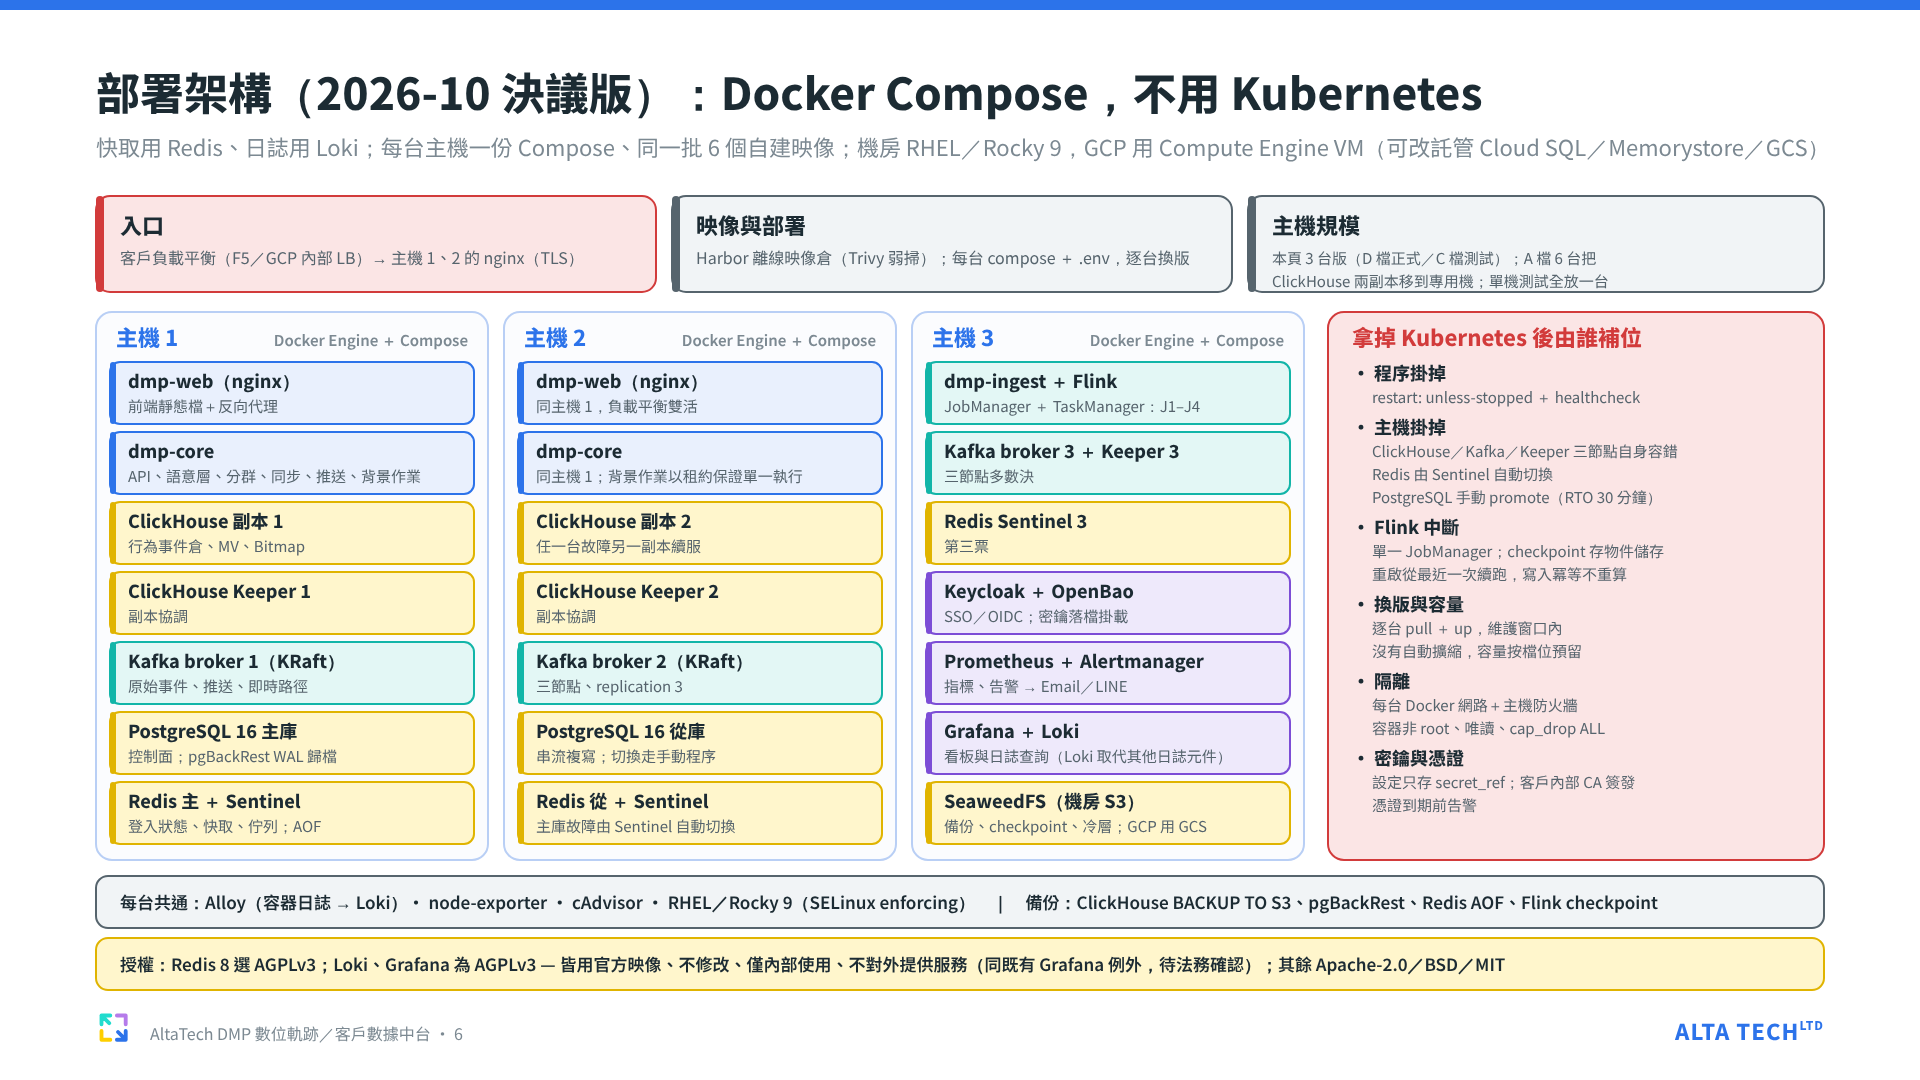
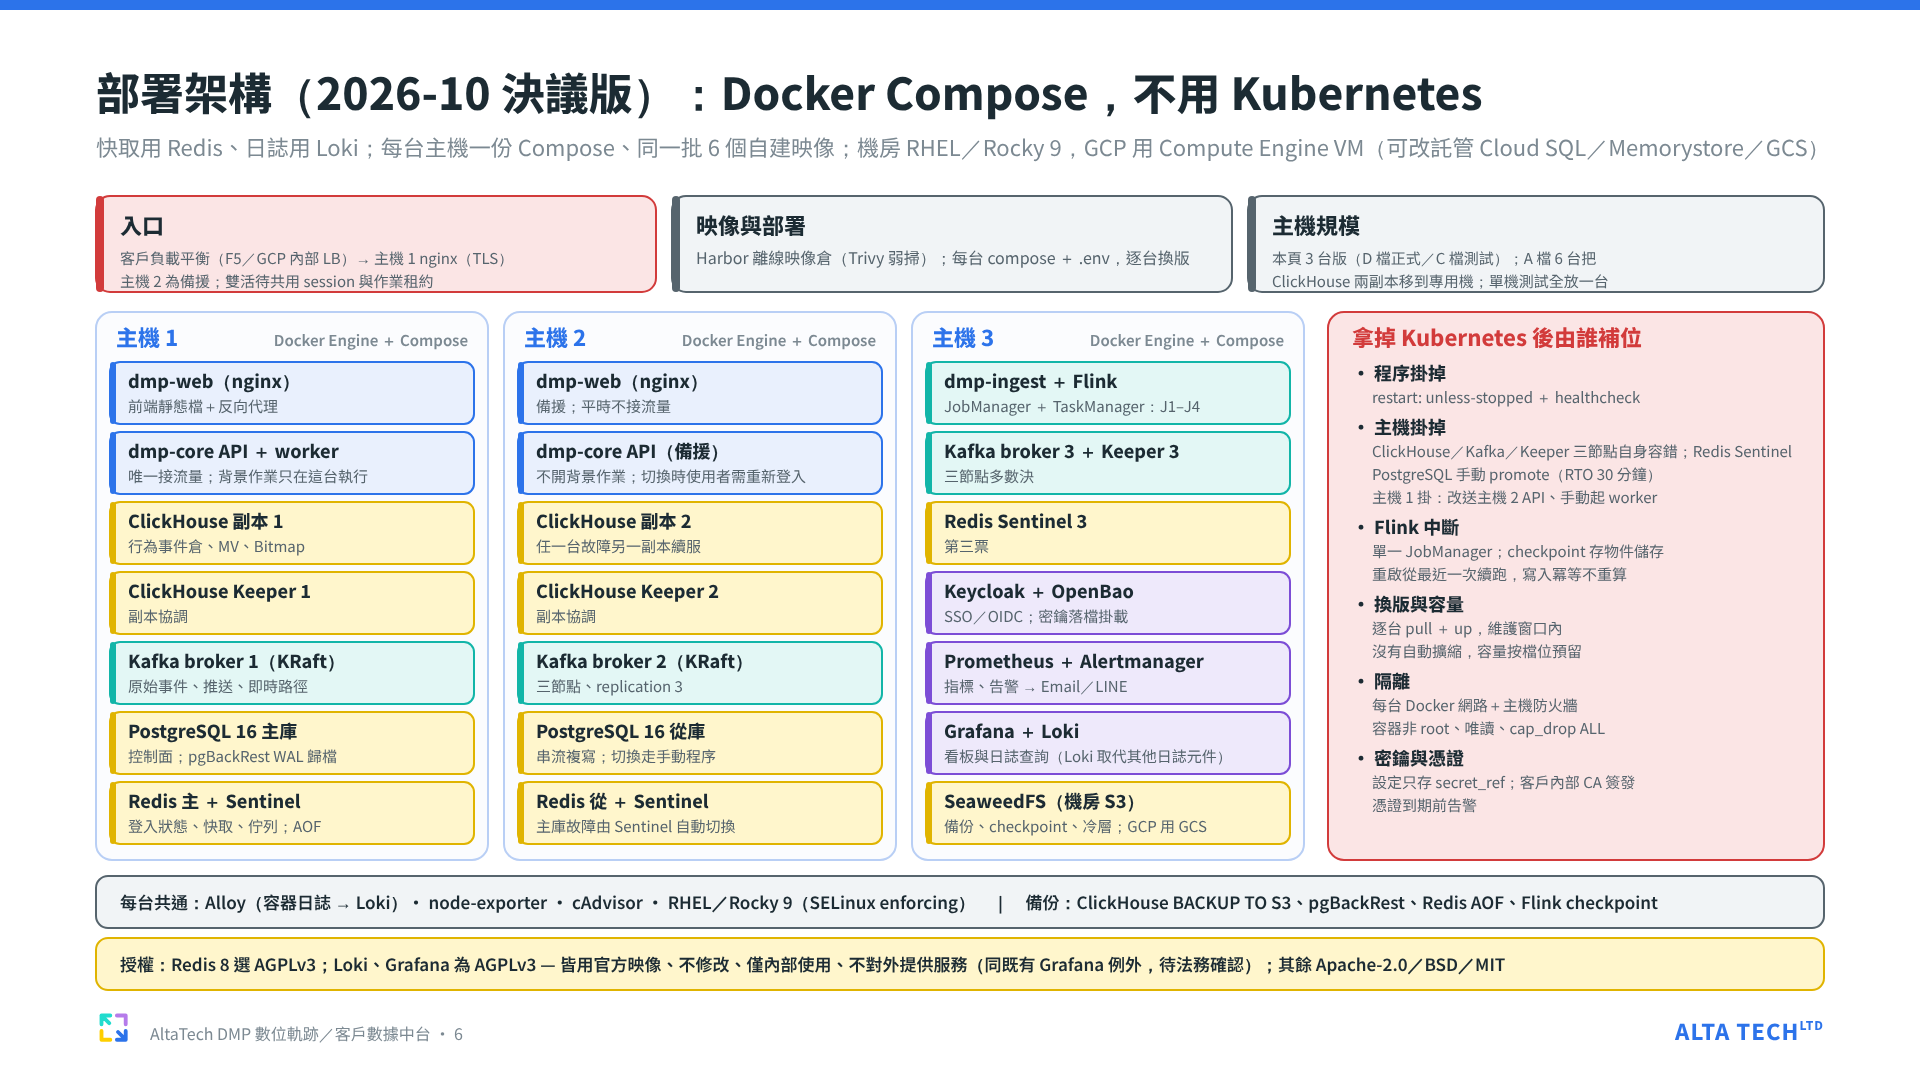
docs/44：API 先主備不雙活，雙活前置工作列入後續
審查指出：登入 session 與 SSO 登入前狀態都在 API 程序記憶體，
第二個 API 不認得同一個 cookie；背景作業 tick 沒有跨程序租約，
兩份 worker 會重複寄送。原文「應用程式碼不用改」與圖上「以租約
保證單一執行」都不成立。

- 拓樸改主備：負載平衡只送主機 1，主機 2 為備援，只有主機 1 的
  worker 開背景作業；主機 1 故障時改送主機 2（需重新登入）
- 新增 §5a 雙活前置工作與驗收；§7 加 backend PR
- 圖與規格書 §1.2 同步

diff --git a/docs/diagrams/build_slides.py b/docs/diagrams/build_slides.py
@@ -204,15 +204,15 @@ def s6():
     s = Slide("部署架構（2026-10 決議版）：Docker Compose，不用 Kubernetes",
               "快取用 Redis、日誌用 Loki；每台主機一份 Compose、同一批 6 個自建映像；機房 RHEL／Rocky 9，GCP 用 Compute Engine VM（可改託管 Cloud SQL／Memorystore／GCS）", 6)
     # 入口列
-    s.box(96, 196, 560, 96, "入口", ["客戶負載平衡（F5／GCP 內部 LB）→ 主機 1、2 的 nginx（TLS）"], "red", 22, 16)
+    s.box(96, 196, 560, 96, "入口", ["客戶負載平衡（F5／GCP 內部 LB）→ 主機 1 nginx（TLS）", "主機 2 為備援；雙活待共用 session 與作業租約"], "red", 22, 15)
     s.box(672, 196, 560, 96, "映像與部署", ["Harbor 離線映像倉（Trivy 弱掃）；每台 compose ＋ .env，逐台換版"], "gray", 22, 16)
     s.box(1248, 196, 576, 96, "主機規模", ["本頁 3 台版（D 檔正式／C 檔測試）；A 檔 6 台把", "ClickHouse 兩副本移到專用機；單機測試全放一台"], "gray", 22, 15)
     hosts = [
-        ("主機 1", [("dmp-web（nginx）", "前端靜態檔＋反向代理", "brand"), ("dmp-core", "API、語意層、分群、同步、推送、背景作業", "brand"),
+        ("主機 1", [("dmp-web（nginx）", "前端靜態檔＋反向代理", "brand"), ("dmp-core API ＋ worker", "唯一接流量；背景作業只在這台執行", "brand"),
                    ("ClickHouse 副本 1", "行為事件倉、MV、Bitmap", "yellow"), ("ClickHouse Keeper 1", "副本協調", "yellow"),
                    ("Kafka broker 1（KRaft）", "原始事件、推送、即時路徑", "teal"), ("PostgreSQL 16 主庫", "控制面；pgBackRest WAL 歸檔", "yellow"),
                    ("Redis 主 ＋ Sentinel", "登入狀態、快取、佇列；AOF", "yellow")]),
-        ("主機 2", [("dmp-web（nginx）", "同主機 1，負載平衡雙活", "brand"), ("dmp-core", "同主機 1；背景作業以租約保證單一執行", "brand"),
+        ("主機 2", [("dmp-web（nginx）", "備援；平時不接流量", "brand"), ("dmp-core API（備援）", "不開背景作業；切換時使用者需重新登入", "brand"),
                    ("ClickHouse 副本 2", "任一台故障另一副本續服", "yellow"), ("ClickHouse Keeper 2", "副本協調", "yellow"),
                    ("Kafka broker 2（KRaft）", "三節點、replication 3", "teal"), ("PostgreSQL 16 從庫", "串流複寫；切換走手動程序", "yellow"),
                    ("Redis 從 ＋ Sentinel", "主庫故障由 Sentinel 自動切換", "yellow")]),
@@ -235,7 +235,7 @@ def s6():
     s.rect(1328, 312, 496, 548, C["redsoft"], C["red"], 16)
     s.text(1352, 346, "拿掉 Kubernetes 後由誰補位", 22, 800, C["red"])
     tips = [("程序掛掉", ["restart: unless-stopped ＋ healthcheck"]),
-            ("主機掛掉", ["ClickHouse／Kafka／Keeper 三節點自身容錯", "Redis 由 Sentinel 自動切換", "PostgreSQL 手動 promote（RTO 30 分鐘）"]),
+            ("主機掛掉", ["ClickHouse／Kafka／Keeper 三節點自身容錯；Redis Sentinel", "PostgreSQL 手動 promote（RTO 30 分鐘）", "主機 1 掛：改送主機 2 API、手動起 worker"]),
             ("Flink 中斷", ["單一 JobManager；checkpoint 存物件儲存", "重啟從最近一次續跑，寫入冪等不重算"]),
             ("換版與容量", ["逐台 pull ＋ up，維護窗口內", "沒有自動擴縮，容量按檔位預留"]),
             ("隔離", ["每台 Docker 網路＋主機防火牆", "容器非 root、唯讀、cap_drop ALL"]),

diff --git a/docs/44-deployment-docker-redis-loki.md b/docs/44-deployment-docker-redis-loki.md
@@ -11,21 +11,21 @@
 | D-2 | 快取、佇列、登入狀態用 **Redis**（不換 Valkey） | Valkey 8 | 團隊熟 Redis；授權處理見 §3 |
 | D-3 | 日誌用 **Loki**（＋ Grafana 查詢），不用 OpenSearch／VictoriaLogs／Cloud Logging | VictoriaLogs（或 OpenSearch） | 團隊熟 Loki；與既有 Grafana 同一介面 |
 
-不變：6 個自建映像（core／ingest／batch／agent／flink-jobs／web）、ClickHouse、Kafka（KRaft）、PostgreSQL 16、Keycloak、OpenBao、Prometheus ＋ Grafana、Harbor、物件儲存（機房 SeaweedFS／GCP GCS）、機器檔位（docs/13）。映像本來就是 Docker 映像，應用程式碼不用改。
+不變：6 個自建映像（core／ingest／batch／agent／flink-jobs／web）、ClickHouse、Kafka（KRaft）、PostgreSQL 16、Keycloak、OpenBao、Prometheus ＋ Grafana、Harbor、物件儲存（機房 SeaweedFS／GCP GCS）、機器檔位（docs/13）。映像本來就是 Docker 映像；**單一 API 實例**部署不用改程式。兩個 API 同時接流量（雙活）與背景作業多份執行都**需要先改程式**，見 §5a；完成前採主備。
 
 ## 2. 部署拓樸（3 台版，D 檔正式／C 檔測試）
 
 | 主機 | 容器 |
 |---|---|
-| 1 | dmp-web（nginx，TLS）、dmp-core、ClickHouse 副本 1、Keeper 1、Kafka 1、PostgreSQL 主庫、Redis 主 ＋ Sentinel |
-| 2 | dmp-web、dmp-core、ClickHouse 副本 2、Keeper 2、Kafka 2、PostgreSQL 從庫、Redis 從 ＋ Sentinel |
+| 1 | dmp-web（nginx，TLS）、dmp-core API（唯一接流量）＋ dmp-core worker（唯一開背景作業）、ClickHouse 副本 1、Keeper 1、Kafka 1、PostgreSQL 主庫、Redis 主 ＋ Sentinel |
+| 2 | dmp-web、dmp-core API 備援（平時不接流量、不開背景作業）、ClickHouse 副本 2、Keeper 2、Kafka 2、PostgreSQL 從庫、Redis 從 ＋ Sentinel |
 | 3 | dmp-ingest、Flink（JobManager ＋ TaskManager，跑 docs/43 的 J1–J4）、Kafka 3、Keeper 3、Redis Sentinel、Keycloak、OpenBao、Prometheus ＋ Alertmanager、Grafana ＋ Loki、SeaweedFS（機房） |
 | 每台 | Alloy（容器日誌 → Loki）、node-exporter、cAdvisor；RHEL／Rocky 9，SELinux enforcing |
 
 - A 檔 6 台：ClickHouse 兩副本移到兩台專用機（olap），其餘同上分散到 4 台。
 - 單機測試環境（docs/17 §5a 建議 1 台 4 vCPU／16 GB）：同一份 compose、每種服務 1 份、不開 Sentinel。
 - GCP：Compute Engine VM 跑同一份 compose；可選擇改用託管 Cloud SQL（PostgreSQL）、Memorystore for Redis、GCS，compose 裡對應服務不啟動、連線字串改指託管端點。
-- 入口：客戶既有負載平衡（機房 F5 等，GCP 內部 LB）→ 主機 1、2 的 nginx；不新增 keepalived 等元件。
+- 入口：客戶既有負載平衡（機房 F5 等，GCP 內部 LB）→ 主機 1 的 nginx，主機 2 設為備援（backup）；不新增 keepalived 等元件。雙活要等 §5a 完成。
 
 ## 3. Redis 授權怎麼處理（需法務確認）
 
@@ -53,7 +53,7 @@ Loki 3.x 為 AGPLv3，與 Grafana OSS 同一家、同一種處理：官方映像
 | 原本由 K8s／Operator 做的事 | Docker 版做法 | 代價 |
 |---|---|---|
 | 程序掛掉自動重啟 | `restart: unless-stopped` ＋ `healthcheck` | 無 |
-| 主機故障時把服務搬到別台 | 不搬；靠服務本身的多副本：ClickHouse 雙副本、Kafka／Keeper 三節點、Redis Sentinel 自動切換；PostgreSQL 從庫手動 promote（運維手冊，RTO 30 分鐘） | PostgreSQL 切換變手動；故障主機上的 dmp-core 由另一台 nginx 承接 |
+| 主機故障時把服務搬到別台 | 不搬；靠服務本身的多副本：ClickHouse 雙副本、Kafka／Keeper 三節點、Redis Sentinel 自動切換；PostgreSQL 從庫手動 promote（運維手冊，RTO 30 分鐘） | PostgreSQL 切換變手動；主機 1 故障時負載平衡改送主機 2 的備援 API（使用者需重新登入、進行中的 SSO 登入要重來），運維手動啟動主機 2 的 worker（§5a） |
 | Flink Operator（HA、升級） | Flink standalone：單一 JobManager ＋ TaskManager；checkpoint／savepoint 存物件儲存；JobManager 重啟後由啟動腳本從最近一次 checkpoint 續跑 | 中斷期間（分鐘級）即時路徑延遲上升；stream_writer 寫入冪等（docs/43 §3），不重算不重複；日批照常是權威 |
 | CloudNativePG（備份、切換） | PostgreSQL 官方映像 ＋ 串流複寫 ＋ pgBackRest（WAL 歸檔、日備份到物件儲存） | 切換手動 |
 | Altinity operator | ClickHouse 官方映像 ＋ 設定檔；備份用內建 `BACKUP TO S3`（日增量／週全量） | 擴 shard 要手動改設定 |
@@ -63,6 +63,15 @@ Loki 3.x 為 AGPLv3，與 Grafana OSS 同一家、同一種處理：官方映像
 | Secret 掛載 | OpenBao Agent 把密鑰寫成檔案掛進容器；設定只存 secret_ref（不變） | 無 |
 | cert-manager | 客戶內部 CA 簽發，檔案掛載；到期前 30 天告警 | 換憑證手動 |
 | ServiceMonitor／PrometheusRule | Prometheus 靜態設定（file_sd）；告警規則沿用 `ops/alerts.yaml` 同一份 | 無 |
+
+## 5a. 雙活前置工作（目前程式不支援，審查已重現）
+
+| 缺口 | 現況 | 要做的 | 驗收 |
+|---|---|---|---|
+| 登入 session 跨 API 實例 | `backend/api/main.py` 每個程序建立自己的 `SessionMemory()`；OIDC 登入前狀態 `AuthService.login_states` 也在程序內（`backend/auth/api.py`）。同一個 cookie 打到另一個 API 會回 401 | 共用 session store 與 login-state adapter（Redis 或 PostgreSQL 控制面） | 跨節點的 SSO callback、cookie、登出、主機故障切換不需重新登入 |
+| 背景作業單一執行 | `start_ticker` 直接呼叫各服務 tick（例：看板定時寄送先讀 last_run、寄完才更新），沒有跨程序 claim／租約；兩份 worker 同時跑會重複寄送 | 每類例行作業加分散式 claim／租約（PostgreSQL 列鎖或租約表） | 兩份 worker 併發同一排程只執行一次；持有者中斷後租約到期由另一份接手 |
+
+完成前的部署規則：負載平衡只送主機 1 的 API；只有主機 1 的 `DMP_ROLE=worker` 開背景作業，兩個 API 都不開 `DMP_TICK`；主機 1 故障時改送主機 2 的 API（使用者重新登入）、運維手動啟動主機 2 的 worker。
 
 ## 6. 其他架構問題（這次一併檢查）
 
@@ -78,6 +87,7 @@ Loki 3.x 為 AGPLv3，與 Grafana OSS 同一家、同一種處理：官方映像
 
 | PR | 內容 |
 |---|---|
+| backend | 雙活前置（§5a）：共用 session／login-state adapter、背景作業分散式租約，含跨節點驗收 |
 | infra | `deploy/compose/`：主機角色 compose、.env 範本、啟動腳本（含 Flink 從最近 checkpoint 續跑）、CI `docker compose config` 驗證；backend/docker-compose.yml 的 valkey 映像換 redis:8（附 CVE 掃描結果） |
 | infra | 監控：Loki ＋ Alloy ＋ cAdvisor 設定、Grafana 資料源、Prometheus file_sd |
 | docs | docs/07、12、13、32、37 與簡報第 4、5 頁改為 Docker 版；Helm 標示不使用 |

diff --git a/docs/17-product-spec.md b/docs/17-product-spec.md
@@ -75,6 +75,7 @@
 - 決議：① 部署用 Docker Compose，第一階段不用 Kubernetes（運維不熟 K8s）；② 快取沿用 Redis（團隊熟悉）；③ 日誌只用 Loki，其他日誌元件不用。應用程式與 6 個映像不變。
 - Redis 授權：Redis 8 起為 RSALv2／SSPLv1／AGPLv3 三選一，本案**選 AGPLv3**，官方映像、不修改、只在中台內部使用、不對外提供 Redis 服務，比照既有 Grafana OSS 例外；Loki（AGPLv3）同樣處理。兩項例外**待法務核可**；不核可時換 Valkey 8（BSD-3，指令相容）只改映像（docs/44 §3–4）。
 - 拿掉 Kubernetes 的代價與處置：程序掛掉靠 `restart` ＋ `healthcheck`；主機故障靠服務自身多副本（ClickHouse 雙副本、Kafka／Keeper 三節點、Redis Sentinel），PostgreSQL 改手動 promote（RTO 30 分鐘）；Flink 單一 JobManager、從最近 checkpoint 續跑；換版逐台、無自動擴縮（docs/44 §5）。
+- API 先採主備、不雙活：目前登入 session 與 SSO 登入前狀態都在 API 程序記憶體、背景作業沒有跨程序租約，所以只有主機 1 的 API 接流量、只有主機 1 的 worker 跑背景作業；主機 1 故障時改送主機 2（使用者需重新登入）。雙活前置工作（共用 session、作業租約）列為後續 backend PR（docs/44 §5a）。
 - 一併檢查出的架構問題：Flink 已改第一階段但舊圖仍標第二階段；Keycloak、OpenBao、監控集中在主機 3 是單點；Helm 改為保留不使用、部署套件改 `deploy/compose/`；RHEL 預設 Podman；docs/07、12、13、32、37 與簡報第 4、5 頁待改（docs/44 §6）。
 
 ## 2. 元件模組圖
